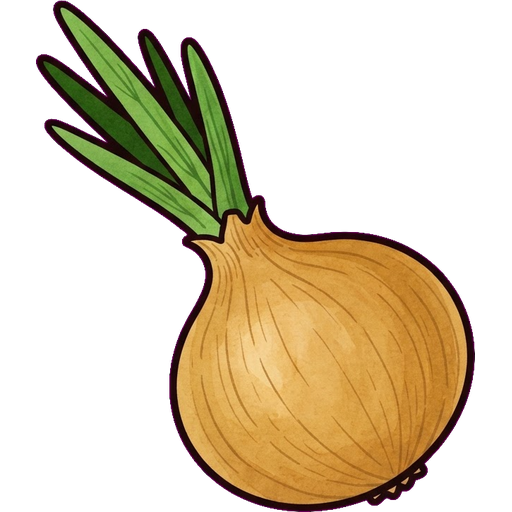
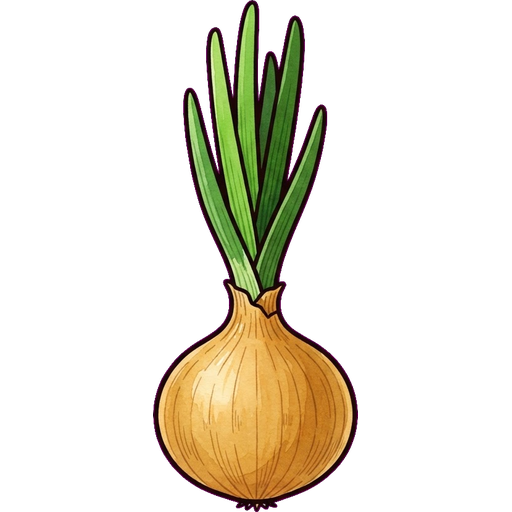
Sticker: replace Hollyhock (cyan BG) + Onion (vertical with tall fronds)

diff --git a/tools/sticker-generate-one.py b/tools/sticker-generate-one.py
@@ -118,7 +118,7 @@ PLANT_LOOKUP = {
     "delphinium":        ("flower-spike_delphinium",       "M",  256, "Perennial",        "plant", "vivid blue #2A5AD4, deep violet-blue #1A3A9A, pale blue #8AB8E8, mid-green #4A7C2F, dark outline #0A1A0A", "Tall vertical spike densely packed with vivid blue flowers. Multiple florets arranged up the stem. Correct proportions. No roots."),
     "foxglove":          ("flower-spike_foxglove",         "M",  256, "Biennial",         "plant", "deep purple #7B35C8, pale pink #F5A8D0, spotted throat #2A1A4A, mid-green #4A7C2F, cream #F5F0E8, dark outline #0A1A0A", "Tall vertical spike with pendulous tubular bell-shaped flowers arranged up the stem. Flowers spotted inside. Correct proportions. No roots."),
     "agapanthus":        ("flower-cluster_agapanthus",    "M",  256, "Bulb / Perennial", "plant", "vivid blue #3A6AD4, deep violet-blue #2A4AA8, pale blue #8AB8E8, mid-green strap #4A7C3A, dark outline #0A1A0A", "Tall upright stems topped with large round clusters of small tubular blue flowers. Strap-like leaves at base. Correct proportions. No roots."),
-    "hollyhock":         ("flower-spike_hollyhock",        "XL", 512, "Biennial",         "plant", "vivid pink #E8407A, deep rose #C41260, pale pink #F5A8C8, bright yellow centre #FFD700, mid-green #4A7C2F, dark outline #0A1A0A", "Tall vertical spike with large open funnel-shaped flowers arranged up the stem. Correct proportions. No roots."),
+    "hollyhock":         ("flower-spike_hollyhock",        "XL", 512, "Biennial",         "plant", "vivid pink #E8407A, deep rose #C41260, pale pink #F5A8C8, bright yellow centre #FFD700, mid-green #4A7C2F, dark outline #0A1A0A, flat solid cyan background (#00FFFF)", "Tall vertical spike with large open funnel-shaped flowers arranged up the stem. Correct proportions. No roots."),
     "cauliflower":       ("vegetable-leafy_cauliflower",   "M",  256, "Vegetable",        "plant", "pure white curd #F8F8F0, pale cream #F0EEE0, blue-green leaves #4A7A5A, mid-green #5A8A5A, dark outline #0A1A0A", "Compact cauliflower head. Large dense white curd surrounded by broad blue-green leaves. Correct proportions. No roots."),
     "crocus":            ("bulb-spring_crocus",            "XS", 96,  "Bulb",        "plant", "pale purple #A878D8, deep violet #6A2A9A, soft lavender #C8A8E8, pale yellow centre #FFE870, mid-green strap #4A7C2F, dark outline #0A1A0A", "Correct proportions. No roots."),
     "garden verbena":    ("flower-cluster_verbena",        "S",  160, "Annual Flower","plant", "vivid purple #7B35C8, deep violet #5A1A9A, bright crimson #C41230, mid-green #4A7C2F, pale lavender #C4A8E0, dark outline #0A1A0A", "Correct proportions. No roots."),
@@ -138,7 +138,7 @@ PLANT_LOOKUP = {
     # Root veg
     "carrot":            ("vegetable-root_carrot",       "S",  160, "Root Vegetable", "rootveg",   "bright orange #FF6B1A, deep orange #CC4A00, bright green tops #4AAF2F, mid-green #2A7010, pale green stem #8FBF6A", "Carrot and tops peeking from a plant wide soil line. Only show the top above the minimal soil line. Bold orange carrot shoulders visible, root at bottom and leafy tops."),
     "beet":              ("vegetable-root_beet",         "S",  160, "Root Vegetable", "rootveg",   "deep burgundy-red #8B1A2A, dark magenta #6B0A1A, bright green tops #4AAF2F, red-veined leaves #A83A2A", "Beet and tops peeking from a plant wide soil line. Only show the top above the minimal soil line. Round dark red beet shoulders visible, root at bottom and leafy red-veined tops."),
-    "onion":             ("vegetable-root_onion",        "S",  160, "Root Vegetable", "rootveg",   "papery golden-brown #C8A050, pale white #F5F0E8, bright green strap tops #4A8C3A, mid-green #2A6010, dark outline #1A0A0A", "Onion bulb and strap tops only. No soil, no ground, no dirt, no roots. Round papery golden-brown onion bulb floating cleanly, strap-leaf tops above."),
+    "onion":             ("vegetable-root_onion",        "S",  160, "Root Vegetable", "rootveg",   "papery golden-brown #C8A050, pale white #F5F0E8, bright green strap tops #4A8C3A, mid-green #2A6010, dark outline #1A0A0A", "Vertical onion with tall frond/shoots. Onion bulb and strap tops only. No soil, no ground, no dirt, no roots. Round papery golden-brown onion bulb floating cleanly, strap-leaf tops above."),
     "kohlrabi":          ("vegetable-root_kohlrabi",     "S",  160, "Root Vegetable", "rootveg",   "pale green bulb #A8D870, purple-green tinge #8A9A50, bright green strap leaves #4AAF2F, mid-green #2A7010, dark outline #1A2A0A", "Kohlrabi bulb and strap leaves only. No soil, no ground, no dirt, no roots. Round pale green bulb with leaf stalks growing directly from the bulb surface, leafy tops above."),
     "garlic":            ("vegetable-root_garlic",       "S",  160, "Root Vegetable", "rootveg",   "papery white #F5F0E8, pale purple tinge #C8B8D8, bright green strap #4AAF2F, mid-green #2A7010, warm tan #C8A870", "Garlic bulb and strap tops only. No soil, no ground, no dirt, no roots. Papery white garlic bulb floating cleanly, strap-leaf tops above."),
     # Flowers
